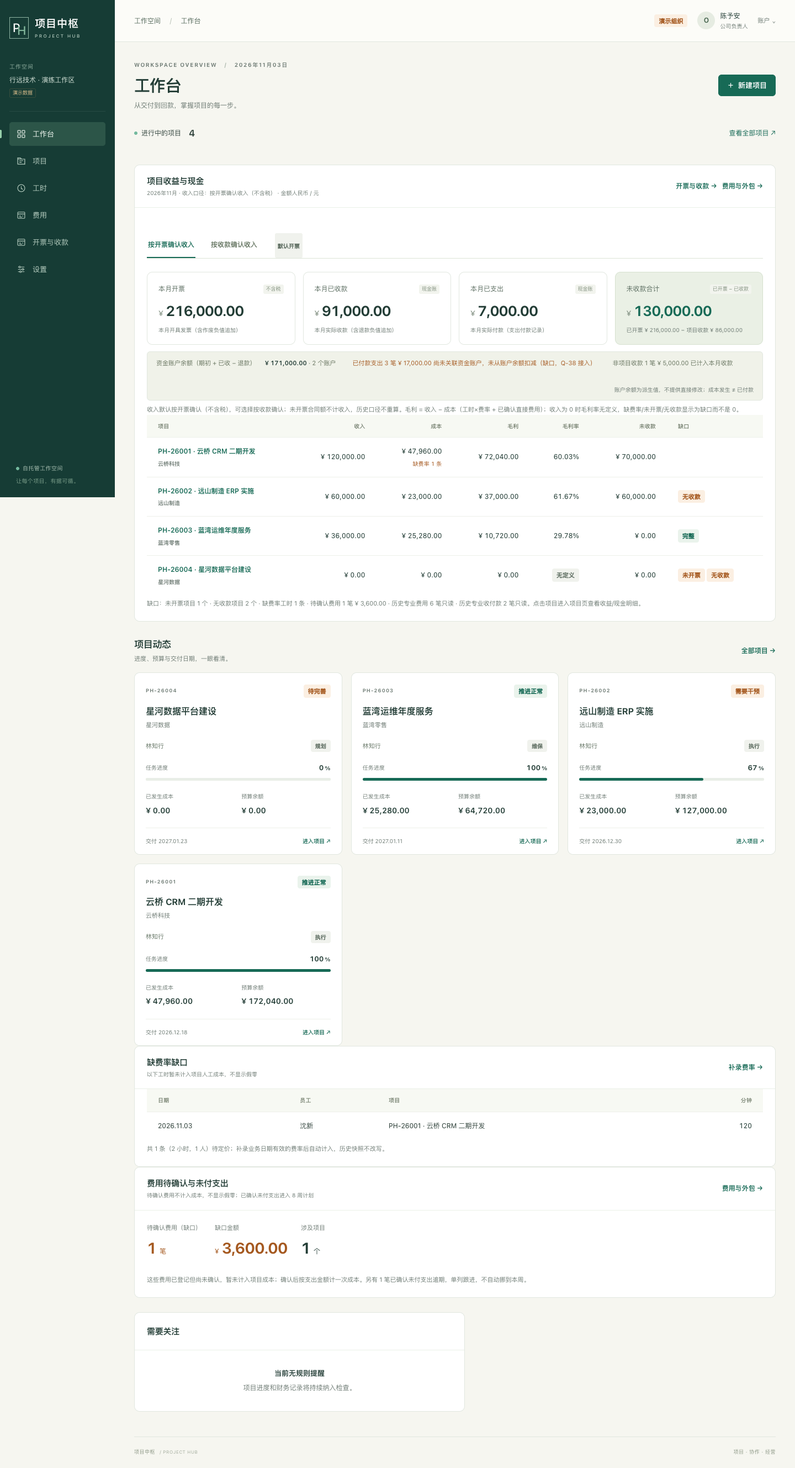
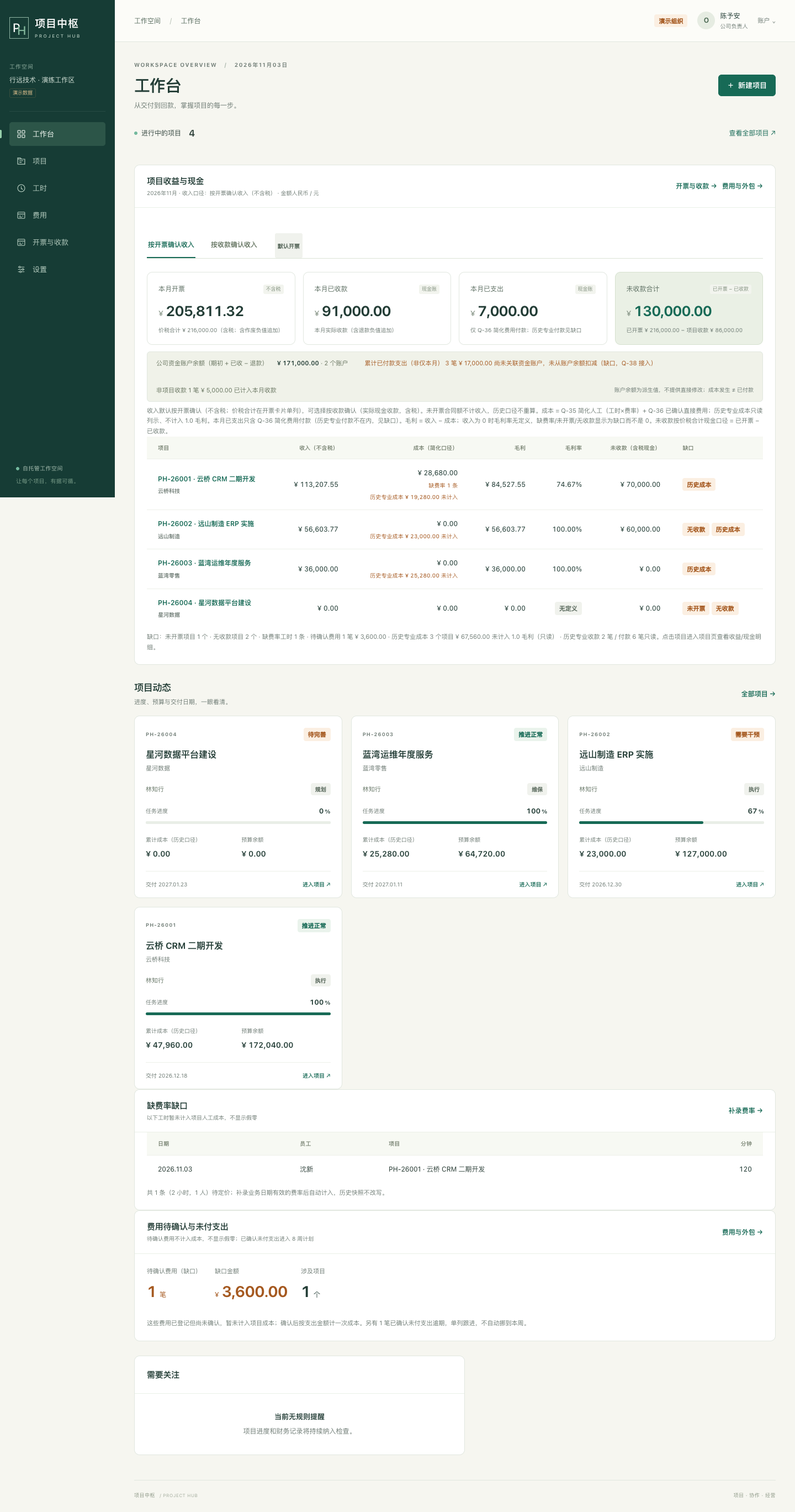
fix(Q-33): 开票收入按不含税口径并明确简化成本/历史成本边界

diff --git a/templates/partials/business_overview.html b/templates/partials/business_overview.html
@@ -1,8 +1,8 @@
 {% load money %}{% if business %}<section class="panel section-gap" id="business-overview"><div class="panel-heading"><div><h2>项目收益与现金</h2><p>{{ business.month_label }} · 收入口径：{{ business.basis_label }}（不含税） · 金额人民币 / 元</p></div><div class="actions"><a class="text-link" href="{% url 'billing' %}">开票与收款 →</a><a class="text-link" href="{% url 'expenses' %}">费用与外包 →</a></div></div><div class="panel-body">
 <nav class="section-nav" aria-label="收入口径"><a href="?basis=invoice" {% if business.basis == 'invoice' %}aria-current="page" style="border-bottom-color:var(--green);color:var(--green)"{% endif %}>按开票确认收入</a><a href="?basis=receipt" {% if business.basis == 'receipt' %}aria-current="page" style="border-bottom-color:var(--green);color:var(--green)"{% endif %}>按收款确认收入</a><span class="badge neutral">默认开票</span></nav>
-<div class="metrics-grid"><article class="metric"><span class="metric-label">本月开票 <span>不含税</span></span><strong><small>¥</small> {{ business.month.invoiced_cents|money }}</strong><p>本月开具发票（含作废负值追加）</p></article><article class="metric"><span class="metric-label">本月已收款 <span>现金账</span></span><strong><small>¥</small> {{ business.month.received_cents|money }}</strong><p>本月实际收款（含退款负值追加）</p></article><article class="metric"><span class="metric-label">本月已支出 <span>现金账</span></span><strong><small>¥</small> {{ business.month.spent_cents|money }}</strong><p>本月实际付款（支出付款记录）</p></article><article class="metric featured"><span class="metric-label">未收款合计 <span>已开票 − 已收款</span></span><strong><small>¥</small> {{ business.outstanding.outstanding_cents|money }}</strong><p>已开票 ¥ {{ business.outstanding.invoiced_cents|money }} − 项目收款 ¥ {{ business.outstanding.received_cents|money }}</p></article></div>
-<div class="balance-strip"><span>{% if business.cash.account_total_cents is not None %}资金账户余额（期初 + 已收 − 退款） <strong>¥ {{ business.cash.account_total_cents|money }}</strong> · {{ business.cash.account_count }} 个账户{% else %}资金账户余额仅公司负责人可见（缺口）{% endif %}</span>{% if business.cash.payment_unlinked_count %}<span class="text-warning">已付款支出 {{ business.cash.payment_unlinked_count }} 笔 ¥ {{ business.cash.payment_unlinked_cents|money }} 尚未关联资金账户，未从账户余额扣减（缺口，Q-38 接入）</span>{% endif %}{% if business.gaps.non_project_receipt_count %}<span>非项目收款 {{ business.gaps.non_project_receipt_count }} 笔 ¥ {{ business.gaps.non_project_receipt_cents|money }} 已计入本月收款</span>{% endif %}<span class="muted">账户余额为派生值，不提供直接修改；成本发生 ≠ 已付款</span></div>
-<p class="help-text section-gap">收入默认按开票确认（不含税），可选择按收款确认；未开票合同额不计收入，历史口径不重算。毛利 = 收入 − 成本（工时×费率 + 已确认直接费用）；收入为 0 时毛利率无定义，缺费率/未开票/无收款显示为缺口而不是 0。</p>
-<div class="table-scroll"><table class="q33-ranking"><caption class="sr-only">项目毛利排行（{{ business.basis_label }}口径）</caption><thead><tr><th scope="col">项目</th><th scope="col" class="numeric">收入</th><th scope="col" class="numeric">成本</th><th scope="col" class="numeric">毛利</th><th scope="col" class="numeric">毛利率</th><th scope="col" class="numeric">未收款</th><th scope="col">缺口</th></tr></thead><tbody>{% for row in business.ranking %}<tr><th scope="row"><a href="{% url 'project-detail' row.project.pk %}">{{ row.project.code }} · {{ row.project.name }}</a><span class="cell-sub">{{ row.project.client }}</span></th><td class="numeric" data-label="收入">¥ {{ row.revenue_cents|money }}</td><td class="numeric" data-label="成本">¥ {{ row.cost_cents|money }}{% if row.labor_gap_count %}<span class="cell-sub text-warning">缺费率 {{ row.labor_gap_count }} 条</span>{% endif %}</td><td class="numeric {% if row.gross_cents < 0 %}text-warning{% endif %}" data-label="毛利">¥ {{ row.gross_cents|money }}</td><td class="numeric" data-label="毛利率">{% if row.margin_undefined %}<span class="badge neutral">无定义</span>{% elif row.margin_bp < 0 %}<span class="text-warning">{{ row.margin_bp|bp_percent }}</span>{% else %}{{ row.margin_bp|bp_percent }}{% endif %}</td><td class="numeric" data-label="未收款">¥ {{ row.outstanding_cents|money }}</td><td data-label="缺口">{% if row.uninvoiced %}<span class="badge warning">未开票</span> {% endif %}{% if row.no_receipt %}<span class="badge warning">无收款</span> {% endif %}{% if not row.uninvoiced and not row.no_receipt and not row.labor_gap_count %}<span class="badge success">完整</span>{% endif %}</td></tr>{% empty %}<tr><td colspan="7" class="table-empty">还没有可排行项目；先创建项目并登记工时/费用与开票收款。</td></tr>{% endfor %}</tbody></table></div>
-<p class="help-text">缺口：未开票项目 {{ business.gaps.uninvoiced_count }} 个 · 无收款项目 {{ business.gaps.no_receipt_count }} 个 · 缺费率工时 {{ business.gaps.labor_gap_count }} 条 · 待确认费用 {{ business.gaps.pending_expense_count }} 笔 ¥ {{ business.gaps.pending_expense_cents|money }} · 历史专业费用 {{ business.gaps.legacy_expense_count }} 笔只读 · 历史专业收付款 {{ business.gaps.legacy_receipt_count }} 笔只读。点击项目进入项目页查看收益/现金明细。</p>
+<div class="metrics-grid"><article class="metric"><span class="metric-label">本月开票 <span>不含税</span></span><strong><small>¥</small> {{ business.month.invoiced_cents|money }}</strong><p>价税合计 ¥ {{ business.month.invoiced_gross_cents|money }}（含税；含作废负值追加）</p></article><article class="metric"><span class="metric-label">本月已收款 <span>现金账</span></span><strong><small>¥</small> {{ business.month.received_cents|money }}</strong><p>本月实际收款（含退款负值追加）</p></article><article class="metric"><span class="metric-label">本月已支出 <span>现金账</span></span><strong><small>¥</small> {{ business.month.spent_cents|money }}</strong><p>仅 Q-36 简化费用付款；历史专业付款见缺口</p></article><article class="metric featured"><span class="metric-label">未收款合计 <span>已开票 − 已收款</span></span><strong><small>¥</small> {{ business.outstanding.outstanding_cents|money }}</strong><p>已开票 ¥ {{ business.outstanding.invoiced_cents|money }} − 项目收款 ¥ {{ business.outstanding.received_cents|money }}</p></article></div>
+<div class="balance-strip"><span>公司资金账户余额（期初 + 已收 − 退款） <strong>¥ {{ business.cash.account_total_cents|money }}</strong> · {{ business.cash.account_count }} 个账户</span>{% if business.cash.payment_unlinked_count %}<span class="text-warning">累计已付款支出（非仅本月） {{ business.cash.payment_unlinked_count }} 笔 ¥ {{ business.cash.payment_unlinked_cents|money }} 尚未关联资金账户，未从账户余额扣减（缺口，Q-38 接入）</span>{% endif %}{% if business.gaps.non_project_receipt_count %}<span>非项目收款 {{ business.gaps.non_project_receipt_count }} 笔 ¥ {{ business.gaps.non_project_receipt_cents|money }} 已计入本月收款</span>{% endif %}<span class="muted">账户余额为派生值，不提供直接修改；成本发生 ≠ 已付款</span></div>
+<p class="help-text section-gap">收入默认按开票确认（不含税；价税合计在开票卡片单列），可选择按收款确认（实际现金收款，含税）。未开票合同额不计收入，历史口径不重算。成本 = Q-35 简化人工（工时×费率）+ Q-36 已确认直接费用；历史专业成本只读列示、不计入 1.0 毛利。本月已支出只含 Q-36 简化费用付款（历史专业付款不在内，见缺口）。毛利 = 收入 − 成本；收入为 0 时毛利率无定义，缺费率/未开票/无收款显示为缺口而不是 0。未收款按价税合计现金口径 = 已开票 − 已收款。</p>
+<div class="table-scroll"><table class="q33-ranking"><caption class="sr-only">项目毛利排行（{{ business.basis_label }}口径）</caption><thead><tr><th scope="col">项目</th><th scope="col" class="numeric">{% if business.basis == 'invoice' %}收入（不含税）{% else %}收入（收款）{% endif %}</th><th scope="col" class="numeric">成本（简化口径）</th><th scope="col" class="numeric">毛利</th><th scope="col" class="numeric">毛利率</th><th scope="col" class="numeric">未收款（含税现金）</th><th scope="col">缺口</th></tr></thead><tbody>{% for row in business.ranking %}<tr><th scope="row"><a href="{% url 'project-detail' row.project.pk %}">{{ row.project.code }} · {{ row.project.name }}</a><span class="cell-sub">{{ row.project.client }}</span></th><td class="numeric" data-label="收入">¥ {{ row.revenue_cents|money }}</td><td class="numeric" data-label="成本">¥ {{ row.cost_cents|money }}{% if row.labor_gap_count %}<span class="cell-sub text-warning">缺费率 {{ row.labor_gap_count }} 条</span>{% endif %}{% if row.historical_cost_cents %}<span class="cell-sub text-warning">历史专业成本 ¥ {{ row.historical_cost_cents|money }} 未计入</span>{% endif %}</td><td class="numeric {% if row.gross_cents < 0 %}text-warning{% endif %}" data-label="毛利">¥ {{ row.gross_cents|money }}</td><td class="numeric" data-label="毛利率">{% if row.margin_undefined %}<span class="badge neutral">无定义</span>{% elif row.margin_bp < 0 %}<span class="text-warning">{{ row.margin_bp|bp_percent }}</span>{% else %}{{ row.margin_bp|bp_percent }}{% endif %}</td><td class="numeric" data-label="未收款（含税现金）">¥ {{ row.outstanding_cents|money }}</td><td data-label="缺口">{% if row.uninvoiced %}<span class="badge warning">未开票</span> {% endif %}{% if row.no_receipt %}<span class="badge warning">无收款</span> {% endif %}{% if row.historical_cost_cents %}<span class="badge warning">历史成本</span> {% endif %}{% if not row.uninvoiced and not row.no_receipt and not row.labor_gap_count and not row.historical_cost_cents %}<span class="badge success">完整</span>{% endif %}</td></tr>{% empty %}<tr><td colspan="7" class="table-empty">还没有可排行项目；先创建项目并登记工时/费用与开票收款。</td></tr>{% endfor %}</tbody></table></div>
+<p class="help-text">缺口：未开票项目 {{ business.gaps.uninvoiced_count }} 个 · 无收款项目 {{ business.gaps.no_receipt_count }} 个 · 缺费率工时 {{ business.gaps.labor_gap_count }} 条 · 待确认费用 {{ business.gaps.pending_expense_count }} 笔 ¥ {{ business.gaps.pending_expense_cents|money }} · 历史专业成本 {{ business.gaps.historical_cost_projects }} 个项目 ¥ {{ business.gaps.historical_cost_cents|money }} 未计入 1.0 毛利（只读） · 历史专业收款 {{ business.gaps.legacy_receipt_count }} 笔 / 付款 {{ business.gaps.legacy_payment_count }} 笔只读。点击项目进入项目页查看收益/现金明细。</p>
 </div></section>{% elif micro_scope %}<section class="panel section-gap"><div class="panel-heading"><h2>项目收益与现金</h2></div><div class="panel-body"><p>项目收益与现金一屏仅向公司负责人和项目经理开放；成员可查看所属项目与本人投入。</p></div></section>{% endif %}

diff --git a/templates/partials/project_cards.html b/templates/partials/project_cards.html
@@ -1,1 +1,1 @@
-{% load money %}<div class="project-grid">{% for item in cards %}<article class="project-card"><div class="card-top"><span class="eyebrow">{{ item.project.code }}</span><span class="badge health-{{ item.health|slugify }}">{{ item.health_label|default:'待评估' }}</span></div><h3><a href="{% url 'project-detail' item.project.pk %}">{{ item.project.name }}</a></h3><p class="muted">{{ item.project.client }}</p><div class="project-meta"><span>{{ item.project.manager }}</span><span class="badge neutral">{{ item.project.get_stage_display }}</span></div><div class="progress-label"><span>任务进度</span><strong>{{ item.progress|percent }}<small>%</small></strong></div><progress value="{{ item.progress|percent }}" max="100">{{ item.progress|percent }}%</progress>{% if item.cost_cents != None %}<dl class="card-numbers"><div><dt>已发生成本</dt><dd>¥ {{ item.cost_cents|money }}</dd></div><div><dt>预算余额</dt><dd {% if item.remaining_cents < 0 %}class="text-warning"{% endif %}>¥ {{ item.remaining_cents|money }}</dd></div></dl>{% endif %}<div class="card-bottom"><span>交付 {{ item.project.end_date|date:'Y.m.d' }}</span>{% if item.overdue_tasks %}<span class="text-warning">{{ item.overdue_tasks }} 项逾期</span>{% else %}<a href="{% url 'project-detail' item.project.pk %}">进入项目 <span aria-hidden="true">↗</span></a>{% endif %}</div></article>{% empty %}<div class="empty-state"><span class="empty-glyph" aria-hidden="true">▤</span><h3>还没有匹配的项目</h3><p>调整筛选条件，或建立第一个项目。</p>{% if is_owner or membership.role == 'pm' %}<a class="button primary" href="{% url 'new-object' 'project' %}">新建项目</a>{% endif %}</div>{% endfor %}</div>
+{% load money %}<div class="project-grid">{% for item in cards %}<article class="project-card"><div class="card-top"><span class="eyebrow">{{ item.project.code }}</span><span class="badge health-{{ item.health|slugify }}">{{ item.health_label|default:'待评估' }}</span></div><h3><a href="{% url 'project-detail' item.project.pk %}">{{ item.project.name }}</a></h3><p class="muted">{{ item.project.client }}</p><div class="project-meta"><span>{{ item.project.manager }}</span><span class="badge neutral">{{ item.project.get_stage_display }}</span></div><div class="progress-label"><span>任务进度</span><strong>{{ item.progress|percent }}<small>%</small></strong></div><progress value="{{ item.progress|percent }}" max="100">{{ item.progress|percent }}%</progress>{% if item.cost_cents != None %}<dl class="card-numbers"><div><dt>{% if micro_scope %}累计成本（历史口径）{% else %}已发生成本{% endif %}</dt><dd>¥ {{ item.cost_cents|money }}</dd></div><div><dt>预算余额</dt><dd {% if item.remaining_cents < 0 %}class="text-warning"{% endif %}>¥ {{ item.remaining_cents|money }}</dd></div></dl>{% endif %}<div class="card-bottom"><span>交付 {{ item.project.end_date|date:'Y.m.d' }}</span>{% if item.overdue_tasks %}<span class="text-warning">{{ item.overdue_tasks }} 项逾期</span>{% else %}<a href="{% url 'project-detail' item.project.pk %}">进入项目 <span aria-hidden="true">↗</span></a>{% endif %}</div></article>{% empty %}<div class="empty-state"><span class="empty-glyph" aria-hidden="true">▤</span><h3>还没有匹配的项目</h3><p>调整筛选条件，或建立第一个项目。</p>{% if is_owner or membership.role == 'pm' %}<a class="button primary" href="{% url 'new-object' 'project' %}">新建项目</a>{% endif %}</div>{% endfor %}</div>

diff --git a/tests/test_q33_dashboard.py b/tests/test_q33_dashboard.py
@@ -110,7 +110,9 @@ class SnapshotTests(DashboardFixture):
     def test_owner_snapshot_numbers_match_billing_and_expenses(self):
         snapshot = dashboard_snapshot(self.owner, today=self.today)
         self.assertEqual(snapshot["basis"], BASIS_INVOICE)
-        self.assertEqual(snapshot["month"]["invoiced_cents"], 1_560_000)
+        # §4.1: 本月开票收入不含税 = 1,060,000 − 60,000 + 500,000（无税）。
+        self.assertEqual(snapshot["month"]["invoiced_cents"], 1_500_000)
+        self.assertEqual(snapshot["month"]["invoiced_gross_cents"], 1_560_000)
         self.assertEqual(snapshot["month"]["received_cents"], 450_000)
         self.assertEqual(snapshot["month"]["spent_cents"], 100_000)
         self.assertEqual(snapshot["outstanding"]["invoiced_cents"], 1_560_000)
@@ -134,12 +136,15 @@ class SnapshotTests(DashboardFixture):
         self.assertEqual(rows["Q33-001"]["revenue_cents"], 400_000)
         self.assertEqual(rows["Q33-002"]["revenue_cents"], 0)
         self.assertTrue(rows["Q33-002"]["margin_undefined"])
-        self.assertEqual(rows["Q33-001"]["margin_bp"], int((400_000 - 300_000) * 10000 / 400_000))
+        self.assertEqual(rows["Q33-001"]["margin_bp"], 2500)  # (400,000 − 300,000) / 400,000
         invoice = dashboard_snapshot(self.owner, basis=BASIS_INVOICE, today=self.today)
         invoice_rows = {row["project"].code: row for row in invoice["rows"]}
-        self.assertEqual(invoice_rows["Q33-001"]["revenue_cents"], 1_060_000)
-        self.assertEqual(invoice_rows["Q33-001"]["cost_cents"],
-                         project_summary(self.project)["cost_cents"])
+        # 1,060,000 gross − 60,000 tax = 1,000,000 net revenue.
+        self.assertEqual(invoice_rows["Q33-001"]["revenue_cents"], 1_000_000)
+        self.assertEqual(invoice_rows["Q33-001"]["invoiced_gross_cents"], 1_060_000)
+        self.assertEqual(invoice_rows["Q33-001"]["invoiced_net_cents"], 1_000_000)
+        self.assertEqual(invoice_rows["Q33-001"]["cost_cents"], 300_000)
+        self.assertEqual(invoice_rows["Q33-001"]["gross_cents"], 700_000)
 
     def test_ranking_sorted_by_gross_and_zero_revenue_margin_undefined(self):
         snapshot = dashboard_snapshot(self.owner, today=self.today)
@@ -161,12 +166,13 @@ class SnapshotTests(DashboardFixture):
         self.assertEqual(gaps["non_project_receipt_count"], 1)
         self.assertGreaterEqual(snapshot["cash"]["payment_unlinked_cents"], 100_000)
 
-    def test_pm_scope_is_own_projects_and_cash_balance_is_a_gap(self):
+    def test_pm_scope_is_own_projects_and_billing_account_visibility_matches(self):
         snapshot = dashboard_snapshot(self.pm, today=self.today)
         codes = {row["project"].code for row in snapshot["rows"]}
         self.assertEqual(codes, {"Q33-001", "Q33-003"})
         self.assertEqual(snapshot["ranking"][0]["project"].code, "Q33-001")
-        self.assertIsNone(snapshot["cash"]["account_total_cents"])
+        # /billing/ exposes the same company account balances to owner and PM; Q-33 aligns.
+        self.assertEqual(snapshot["cash"]["account_total_cents"], 1_450_000)
         # PM does not see the other PM's project or non-project receipts in monthly cash.
         self.assertEqual(snapshot["month"]["received_cents"], 400_000)
 
@@ -192,8 +198,36 @@ class SnapshotTests(DashboardFixture):
         snapshot = dashboard_snapshot(self.owner, today=self.today)
         codes = {row["project"].code for row in snapshot["rows"]}
         self.assertNotIn("Q33-F01", codes)
-        self.assertEqual(snapshot["month"]["invoiced_cents"], 1_560_000)
+        self.assertEqual(snapshot["month"]["invoiced_cents"], 1_500_000)
         self.assertEqual(snapshot["cash"]["account_total_cents"], 1_450_000)
+
+    def test_taxed_invoice_regression_uses_net_revenue_and_monthly_invoiced(self):
+        # Explicit reviewer probe: invoice 1,060,000 with 60,000 tax → revenue 1,000,000.
+        invoice = Invoice.objects.get(number="Q33-INV-001")
+        self.assertEqual(invoice.amount_cents, 1_060_000)
+        self.assertEqual(invoice.tax_cents, 60_000)
+        snapshot = dashboard_snapshot(self.owner, today=self.today)
+        row = {item["project"].code: item for item in snapshot["rows"]}["Q33-001"]
+        self.assertEqual(row["revenue_cents"], invoice.amount_cents - invoice.tax_cents)
+        self.assertEqual(snapshot["month"]["invoiced_cents"], 1_500_000)
+        self.assertEqual(snapshot["month"]["invoiced_gross_cents"], 1_560_000)
+        # 未收款 remains the cash/gross basis (invoiced − received).
+        self.assertEqual(snapshot["outstanding"]["outstanding_cents"], 1_160_000)
+
+    def test_margin_excludes_historical_professional_cost_and_lists_gap(self):
+        legacy = Document.objects.create(
+            project=self.project, kind=Document.Kind.EXPENSE, title="历史专业费用",
+            amount_cents=200_000, occurred_on=self.today, reference="Q33-LEGACY-EXP",
+            submitted_by=self.owner.user, status="approved")
+        LedgerEntry.objects.create(project=self.project, book=LedgerEntry.Book.COST,
+                                   amount_cents=200_000, category="vendor",
+                                   occurred_on=self.today, document=legacy)
+        snapshot = dashboard_snapshot(self.owner, today=self.today)
+        row = {item["project"].code: item for item in snapshot["rows"]}["Q33-001"]
+        self.assertEqual(row["cost_cents"], 300_000)  # Q-36 only
+        self.assertEqual(row["historical_cost_cents"], 200_000)
+        self.assertEqual(snapshot["gaps"]["historical_cost_cents"], 200_000)
+        self.assertEqual(snapshot["gaps"]["historical_cost_projects"], 1)
 
     def test_snapshot_is_read_only(self):
         before = (LedgerEntry.objects.count(), AuditEvent.objects.count(),
@@ -220,7 +254,9 @@ class DashboardHttpTests(DashboardFixture):
                      "资金账户余额", "项目毛利排行", "无定义", "未开票", "缺费率"):
             self.assertContains(page, text)
         self.assertContains(page, reverse("project-detail", args=[self.project.pk]))
-        self.assertContains(page, "11,600.00")  # outstanding ¥11,600.00
+        self.assertContains(page, "11,600.00")  # outstanding ¥11,600.00 (gross cash)
+        self.assertContains(page, "15,000.00")  # monthly net invoiced ¥15,000.00
+        self.assertContains(page, "15,600.00")  # gross invoiced shown as subtext
 
     def test_basis_query_switch_and_invalid_defaults_to_invoice(self):
         self.login(self.owner)
@@ -260,10 +296,13 @@ class SeedDemoBillingTests(TestCase):
         self.assertEqual(Receipt.objects.count(), 3)
         owner = Membership.objects.get(role="owner")
         snapshot = dashboard_snapshot(owner)
-        self.assertEqual(snapshot["month"]["invoiced_cents"], 21_600_000)
+        self.assertEqual(snapshot["month"]["invoiced_cents"], 20_581_132)  # net of tax
+        self.assertEqual(snapshot["month"]["invoiced_gross_cents"], 21_600_000)
         self.assertEqual(snapshot["month"]["received_cents"], 9_100_000)
         self.assertEqual(snapshot["month"]["spent_cents"], 700_000)
         self.assertEqual(snapshot["outstanding"]["outstanding_cents"], 13_000_000)
         self.assertEqual(snapshot["cash"]["account_total_cents"], 17_100_000)
         self.assertEqual(snapshot["gaps"]["labor_gap_count"], 1)
         self.assertGreaterEqual(snapshot["gaps"]["payment_unlinked_count"], 1)
+        self.assertGreater(snapshot["gaps"]["historical_cost_cents"], 0)
+        self.assertGreaterEqual(snapshot["gaps"]["legacy_payment_count"], 1)

diff --git a/core/business_dashboard.py b/core/business_dashboard.py
@@ -18,8 +18,9 @@ from django.db.models import Sum
 from django.utils import timezone
 
 from .access import require_member, visible_projects
-from .models import Document
+from .models import Document, LedgerEntry
 from .reporting import project_summary
+from .weekly_time import simplified_labor_cost
 
 DASHBOARD_ROLES = frozenset({"owner", "pm"})
 BASIS_INVOICE = "invoice"
@@ -48,6 +49,21 @@ def _sum(queryset, field="amount_cents"):
 
 def _project_payments(payments, project):
     return _sum(payments.filter(expense__project=project))
+
+
+def _simplified_cost(project):
+    """1.0 cost = Q-35 simplified labor + Q-36 confirmed direct expenses only."""
+    q36 = (LedgerEntry.objects.filter(project=project, book=LedgerEntry.Book.COST,
+                                      document__expense_detail__isnull=False)
+           .aggregate(total=Sum("amount_cents"))["total"] or 0)
+    return int(simplified_labor_cost(project)) + int(q36)
+
+
+def _taxed_invoice_totals(queryset):
+    """Gross and net (tax-excluded) invoiced amounts; void reversals are negative rows."""
+    totals = queryset.aggregate(gross=Sum("amount_cents"), tax=Sum("tax_cents"))
+    gross = int(totals["gross"] or 0)
+    return gross, gross - int(totals["tax"] or 0)
 
 
 def _margin_bp(revenue, gross):
@@ -94,19 +110,21 @@ def dashboard_snapshot(member, basis=None, today=None):
                             if is_owner else Receipt.objects.none())
 
     month_filters = {"issued_on__gte": month_start, "issued_on__lt": month_end}
-    month_invoiced = _sum(invoice_scope.filter(**month_filters))
+    month_invoiced_gross, month_invoiced = _taxed_invoice_totals(
+        invoice_scope.filter(**month_filters))
     month_received = _sum(cash_receipts.filter(received_on__gte=month_start,
                                                received_on__lt=month_end))
     month_spent = _sum(cash_payments.filter(paid_on__gte=month_start,
                                             paid_on__lt=month_end))
 
-    invoiced_total = _sum(invoice_scope)
+    invoiced_gross_total, invoiced_net_total = _taxed_invoice_totals(invoice_scope)
     received_total = _sum(receipt_scope)
-    outstanding_total = invoiced_total - received_total
+    # 未收款是现金口径（价税合计），不能用不含税收入冲抵；收入口径只影响毛利。
+    outstanding_total = invoiced_gross_total - received_total
 
+    # /billing/ shows the same company account balances to owner and PM, so Q-33 aligns.
     accounts = list(Account.objects.filter(organization=member.organization))
-    account_total = (sum(account_balance_cents(account) for account in accounts)
-                     if is_owner else None)
+    account_total = sum(account_balance_cents(account) for account in accounts)
     payment_unlinked_count = cash_payments.count()
     payment_unlinked_amount = _sum(cash_payments)
 
@@ -115,29 +133,45 @@ def dashboard_snapshot(member, basis=None, today=None):
     legacy_receipts = Document.objects.filter(
         project_id__in=project_ids, kind=Document.Kind.RECEIPT,
         status__in=[Document.Status.SUBMITTED, Document.Status.APPROVED]).count()
+    legacy_payments = Document.objects.filter(
+        project_id__in=project_ids, kind=Document.Kind.PAYMENT,
+        status__in=[Document.Status.SUBMITTED, Document.Status.APPROVED]).count()
 
     rows = []
+    historical_cost_total = 0
+    historical_cost_projects = 0
     for project in projects:
         totals = project_totals(project)
         summary = project_summary(project)
         received = totals["received_cents"]
         paid = _project_payments(payment_scope, project)
-        revenue = totals["invoiced_cents"] if basis == BASIS_INVOICE else received
-        cost = int(summary["cost_cents"])
-        gross = revenue - cost
+        invoiced_gross, invoiced_net = _taxed_invoice_totals(
+            Invoice.objects.filter(project=project))
+        # §4.1：按开票确认收入时项目收入 = 已开票金额（不含税）；按收款时用实际现金收款。
+        revenue = invoiced_net if basis == BASIS_INVOICE else received
+        simplified_cost = _simplified_cost(project)
+        historical_cost = int(summary["cost_cents"]) - simplified_cost
+        if historical_cost > 0:
+            historical_cost_total += historical_cost
+            historical_cost_projects += 1
+        else:
+            historical_cost = 0
+        gross = revenue - simplified_cost
         rows.append({
             "project": project,
             "revenue_cents": revenue,
-            "invoiced_cents": totals["invoiced_cents"],
+            "invoiced_gross_cents": invoiced_gross,
+            "invoiced_net_cents": invoiced_net,
             "received_cents": received,
-            "outstanding_cents": totals["invoiced_cents"] - received,
+            "outstanding_cents": invoiced_gross - received,
             "cash_net_cents": received - paid,
-            "cost_cents": cost,
+            "cost_cents": simplified_cost,
+            "historical_cost_cents": historical_cost,
             "gross_cents": gross,
             "margin_bp": _margin_bp(revenue, gross),
             "margin_undefined": revenue <= 0,
             "labor_gap_count": int(summary["labor_gap_count"]),
-            "uninvoiced": totals["invoiced_cents"] == 0,
+            "uninvoiced": invoiced_net == 0,
             "no_receipt": received == 0,
         })
     ranking = sorted(rows, key=lambda row: (-row["gross_cents"], row["project"].code))
@@ -149,19 +183,22 @@ def dashboard_snapshot(member, basis=None, today=None):
         "payment_unlinked_cents": payment_unlinked_amount,
         "legacy_expense_count": legacy_expenses,
         "legacy_receipt_count": legacy_receipts,
+        "legacy_payment_count": legacy_payments,
+        "historical_cost_cents": historical_cost_total,
+        "historical_cost_projects": historical_cost_projects,
         "non_project_receipt_count": non_project_receipts.count(),
         "non_project_receipt_cents": _sum(non_project_receipts),
         "pending_expense_count": int(expense_facts.get("pending_count") or 0),
         "pending_expense_cents": int(expense_facts.get("pending_amount_cents") or 0),
-        "liability_plan_count": len(expense_facts.get("plan", {}).get("overdue", []) or []),
     }
     return {
         "basis": basis,
         "basis_label": dict(BASIS_CHOICES)[basis],
         "month_label": f"{today.year}年{today.month}月",
-        "month": {"invoiced_cents": month_invoiced, "received_cents": month_received,
-                  "spent_cents": month_spent},
-        "outstanding": {"invoiced_cents": invoiced_total, "received_cents": received_total,
+        "month": {"invoiced_cents": month_invoiced,
+                  "invoiced_gross_cents": month_invoiced_gross,
+                  "received_cents": month_received, "spent_cents": month_spent},
+        "outstanding": {"invoiced_cents": invoiced_gross_total, "received_cents": received_total,
                         "outstanding_cents": outstanding_total},
         "cash": {"account_total_cents": account_total, "account_count": len(accounts),
                  "payment_unlinked_count": payment_unlinked_count,
@@ -169,5 +206,4 @@ def dashboard_snapshot(member, basis=None, today=None):
         "rows": rows,
         "ranking": ranking,
         "gaps": gaps,
-        "has_data": bool(rows),
     }

diff --git a/project/ACCEPTANCE.md b/project/ACCEPTANCE.md
@@ -37,7 +37,7 @@
 | --- | --- | --- | --- |
 | 1 | 范围/设计/任务与队列重排（Q-31） | not_run | 本 PR 的必需 CI 与独立复核（合并后回填 run URL） |
 | 2 | 小微版入口收口（Q-32） | not_run | 待实现 |
-| 3 | 老板工作台：收益 + 现金一屏（Q-33） | pass | `python manage.py test tests.test_q33_dashboard`（13 tests OK：开票/收款口径切换、未收款=已开票−已收款、账户余额=期初+已收−退款、毛利排行与无定义毛利率、缺费率/未开票/无收款缺口、成员/finance/auditor 403、跨租户隔离、只读零写）；`seed_demo` 后 Chromium 1440/390/键盘证据：本月开票 ¥216,000、已收 ¥91,000、已支出 ¥7,000、未收款 ¥130,000、账户余额 ¥171,000（付款 ¥17,000 未关联账户缺口），排行与 billing/expenses 聚合逐项一致；截图 `docs/screenshots/q33-after-owner-1440.png`、`q33-after-owner-390.png`、`q33-after-owner-390-nav.png`、`q33-after-owner-receipt-1440.png`，Before 对照 `q33-before-*`（main 9daa3fc） |
+| 3 | 老板工作台：收益 + 现金一屏（Q-33） | pass | `python manage.py test tests.test_q33_dashboard`（15 tests OK：含税发票净额回归、简化成本/历史专业成本缺口、开票/收款口径切换、未收款=已开票−已收款、账户余额=期初+已收−退款、毛利排行与无定义毛利率、缺费率/未开票/无收款缺口、PM 账户余额与 /billing/ 一致、成员/finance/auditor 403、跨租户隔离、只读零写）；`seed_demo` 后 Chromium 1440/390/键盘证据：本月开票不含税 ¥205,811.32（价税合计 ¥216,000）、已收 ¥91,000、已支出 ¥7,000（仅 Q-36 付款）、未收款 ¥130,000（含税现金）、账户余额 ¥171,000（累计付款 ¥17,000 未关联账户缺口）、历史专业成本 ¥67,560/3 个项目只读未计入 1.0 毛利；排行与 billing/expenses 聚合逐项一致；截图 `docs/screenshots/q33-after-owner-1440.png`、`q33-after-owner-390.png`、`q33-after-owner-390-nav.png`、`q33-after-owner-receipt-1440.png`，Before 对照 `q33-before-*`（main 9daa3fc） |
 | 4 | 项目页：合同额→开票→收款→成本→毛利（Q-34） | not_run | 待实现 |
 | 5 | 工时与自动人工成本（Q-35） | pass | `python manage.py test tests.test_weekly_time`（18 tests OK：费率快照/更正/幂等/缺费率/权限/锁期/1440 分钟反例，含真实渲染 token 重复提交、锁期费率回填拒绝、极端 ?week、旧审批入口拒绝）；`python manage.py verify_integrity --json` exit 0（演练库 47 条账目）；`manage.py seed_demo` 后 Chromium 1440/390 浏览器证据：周填报→更正→重复提交幂等、失败保留已填数据、缺费率进入工作台缺口清单、补录费率后自动定价；截图 `docs/screenshots/q35-weekly-1440.png`、`q35-weekly-390.png`、`q35-after-dashboard-gap-1440.png`、`q35-after-dashboard-gap-390.png`、`q35-project-cost-1440.png` |
 | 6 | 费用/外包成本确认（Q-36） | pass | `python manage.py test tests.test_q36_expenses`（37 tests OK：登记/确认/更正审计留痕、整数分 Decimal/ROUND_HALF_UP 且拒绝 float、确认→多次更正后 `verify_integrity` 仍 ok、成本=最新值且仅 1 条 active 成本分录、重复确认与重复登记/付款 token 幂等（附件参与幂等）、分次付款不重复计成本、未付进入 8 周计划且按来源去重、逾期单列、超额付款/锁期/未来日期/跨租户/成员-finance-auditor 角色拒绝、历史专业费用只读友好提示与写拒绝、附件类型校验；PostgreSQL-only FOR UPDATE 外连接回归测试在 PG 域执行）；`python manage.py verify_integrity --json` exit 0（seed 后 51 条，浏览器更正链后 56 条）；`seed_demo` 后 Chromium 1440/390 浏览器证据：登记→确认→分次付款→更正（追加冲销重述成本）→项目成本/现金/8 周缺口，截图 `docs/screenshots/q36-after-expenses-1440.png`、`q36-after-expenses-paid-390.png`、`q36-after-expenses-corrected-1440.png`、`q36-after-project-expense-1440.png`、`q36-after-project-expense-390.png`、`q36-after-dashboard-gap-1440.png`，Before 对照 `q36-before-*-1440.png`（main 5e4ae8b/Q-37 合并后、无 Q-36 入口/页面/项目面板） |

diff --git a/project/STATUS.md b/project/STATUS.md
@@ -13,7 +13,7 @@
 
 | 范围 | 可用能力（代码事实） | 验证边界 / 剩余缺口 |
 | --- | --- | --- |
-| 项目、工时、成本、收付款、现金计划 | core 项目账：项目、任务/里程碑、工时与费率快照、费用、收款/付款、现金计划、成本燃尽、审计、单层日期锁；Q-35 周填报工时（免审批、可更正、幂等）与缺费率缺口清单；Q-36 费用/外包登记→确认计成本、同一支出下分次付款只计现金、未付进 8 周计划（来源去重、逾期单列）；Q-33 老板工作台（本月开票/收款/支出、资金账户余额、未收款合计、项目毛利排行；收入默认按开票、可切按收款；缺口与无定义毛利率） | 项目页合同额→开票→收款→成本→毛利一屏（Q-34）与现金页完整 8 周计划/账户流水（Q-38）尚未交付；Q-37 支出付款尚未关联资金账户（工作台显示缺口）；工时/费用/工作台已有 Chromium 1440/390 浏览器证据，其余页面 L4 未执行 |
+| 项目、工时、成本、收付款、现金计划 | core 项目账：项目、任务/里程碑、工时与费率快照、费用、收款/付款、现金计划、成本燃尽、审计、单层日期锁；Q-35 周填报工时（免审批、可更正、幂等）与缺费率缺口清单；Q-36 费用/外包登记→确认计成本、同一支出下分次付款只计现金、未付进 8 周计划（来源去重、逾期单列）；Q-33 老板工作台（本月开票不含税/收款/支出、资金账户余额、未收款合计、项目毛利排行；收入默认按开票净额、可切按收款；成本=Q-35简化人工+Q-36确认费用，历史专业成本只读列缺口；缺口与无定义毛利率） | 项目页合同额→开票→收款→成本→毛利一屏（Q-34）与现金页完整 8 周计划/账户流水（Q-38）尚未交付；Q-37 支出付款尚未关联资金账户（工作台显示缺口）；工时/费用/工作台已有 Chromium 1440/390 浏览器证据，其余页面 L4 未执行 |
 | 客户、合同、开票、结算、核销、退款 | 复杂插件栈有分阶段实现（合同版本/验收/管理收入/结算/发票/银行现金） | 移出 1.0 用户承诺，默认隐藏/停用；历史与审计只读保留；项目归属与 core 不互通 |
 | 预算/ETC、分摊、多币种、工资、税 | 分阶段实现，部分仅 contracts-only/只读 | 移出 1.0；不能宣称跨 owner 完成，历史核算不重算 |
 | 导入、期间预检、差异单/工作台 | core 3 类 CSV 导入可用；insights 读模型、期间预检仍有缺口 | 移出 1.0；复杂导入/期初承接不做（Q-39 只做一键演示） |
